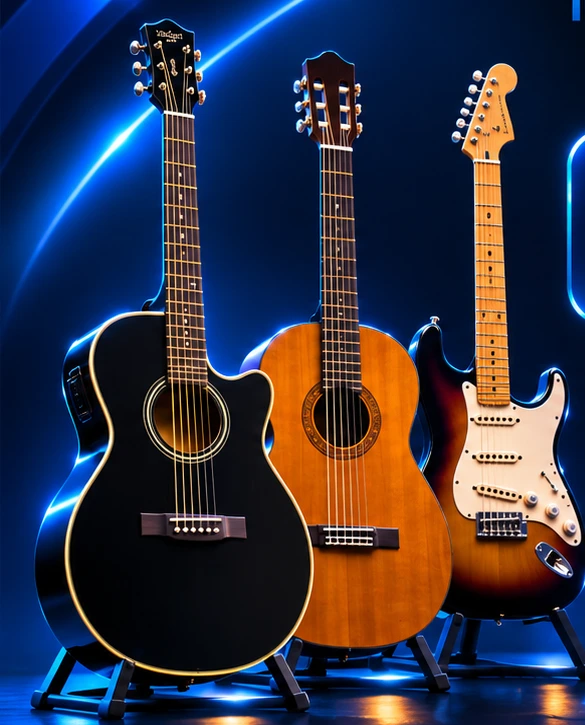
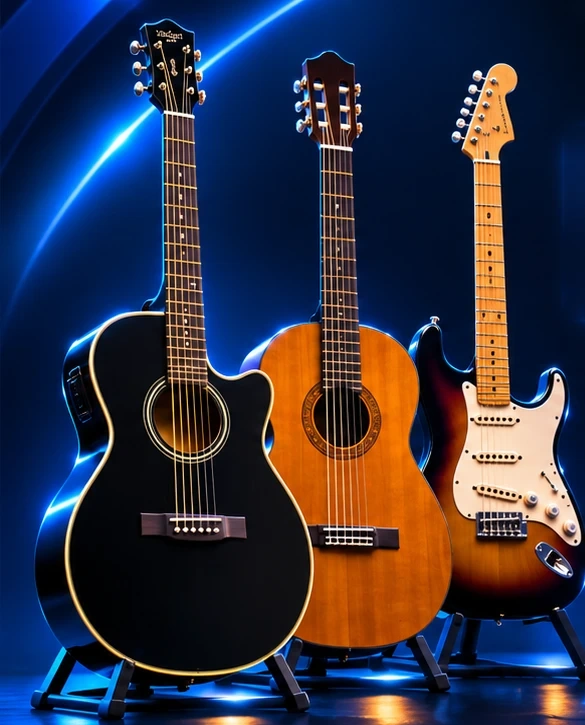
Add files via upload

Changed region(s): [[0.9538, 0.1517, 1.0, 0.4552], [0.9538, 0.0, 1.0, 0.0303]]

diff --git a/index.html b/index.html
@@ -101,7 +101,7 @@ body[data-section='home'] #workArea,body[data-section='home'] #sectionNav,body[d
 #homeScreen .hero-copy{background:transparent!important;box-shadow:none!important;border:0!important;margin-top:-3px!important;padding:0 12px clamp(20px,4vw,36px)!important}
 #homeScreen .hero-copy .tag{background:transparent!important;border:0!important;box-shadow:none!important}
 #homeScreen .hero-copy h1{background:transparent!important;border:0!important;box-shadow:none!important}
-</style></head><body><main class="shell"><header class="top"><div><div class="eyebrow">ROCK ACADEMY · VOL. 18.9</div><div class="logo">GUITAR <span>MASTER</span> <span style="font-size:.5em">⚡</span></div></div><div class="chip">🎸 CLÁSICA · ELECTROACÚSTICA · ELÉCTRICA</div></header><div id="homeScreen"><section class="home-art" aria-label="Portada de Guitar Master"><div class="hero-stage"><img class="hero-guitars" src="guitarras-sin-texto.webp" alt="Guitarra electroacústica negra Yamaha, guitarra clásica de madera y guitarra eléctrica Fender sunburst"><span class="guitar-brand brand-yamaha">YAMAHA</span><span class="guitar-brand brand-fender">Fender</span></div><div class="hero-copy"><div class="tag">GUITAR MASTER · ROCK ACADEMY</div><h1>APRENDE. <em>PRACTICA.</em> TOCA.</h1></div></section><div class="home-doors"><button type="button" class="home-door" id="goLearning"><span class="em">🎓 🎸</span><b>ESTUDIO / PRÁCTICA</b><small>Aprende con lecciones guiadas de notas, intervalos, acordes, escalas, ritmo y armonía.</small></button><button type="button" class="home-door game" id="goGame"><span class="em">🏆 ⚡</span><b>JUEGO / CONCIERTO</b><small>Identifica notas, encuentra posiciones y construye acordes. Suma puntos y supera tus retos.</small></button></div></div><nav class="subnav" id="sectionNav"><button class="btn ghost" type="button" id="goHome">⌂ INICIO</button><button class="btn secondary" type="button" id="navLearning">🎓 ESTUDIO / PRÁCTICA</button><button class="btn secondary" type="button" id="navGame">⚡ JUEGO</button></nav><div id="workArea"><div id="learningMenu"><h2 class="sectiontitle">TU ACADEMIA · APRENDE PASO A PASO</h2><p class="muted">Cada módulo explica la teoría, la muestra en el diapasón y te permite escucharla.</p><div class="learning-menu"><button type="button" id="quickFret"><span>🎸</span>Diapasón y notas</button><button type="button" id="quickChords"><span>🎼</span>Acordes</button><button type="button" id="quickScales"><span>🎶</span>Escalas y patrones</button><button type="button" id="quickIntervals"><span>🎹</span>Intervalos</button><button type="button" id="quickHarmony"><span>🎼</span>Armonía</button><button type="button" id="quickRhythm"><span>🥁</span>Ritmo y tablatura</button></div></div><h2 class="sectiontitle" id="modeHeading">ELIGE TU DESAFÍO</h2><div class="modes" id="modes"><button class="mode active" data-mode="identify"><span class="ico">🎯</span><b>IDENTIFICA</b><small>¿Qué nota está iluminada?</small></button><button class="mode" data-mode="find"><span class="ico">🔎</span><b>ENCUENTRA</b><small>Localiza la nota en la cuerda.</small></button><button class="mode" data-mode="chord"><span class="ico">🎼</span><b>CHORD MASTER</b><small>Construye y reconoce acordes.</small></button><button class="mode" data-mode="mix"><span class="ico">⚡</span><b>ROCK CHALLENGE</b><small>Todos los retos en un concierto.</small></button></div><div class="layout"><aside class="panel"><h2>⚙ TU SETLIST</h2><div id="gameSettings"><div class="field"><label for="player">NOMBRE DEL ROCKSTAR</label><input id="player" maxlength="24" value="Rockstar" placeholder="Tu nombre"></div><div class="grid2"><div class="field"><label for="seconds">SEGUNDOS / RETO</label><select id="seconds"><option>5</option><option selected>10</option><option>15</option><option>20</option><option>30</option><option>45</option></select></div><div class="field"><label for="count">PREGUNTAS</label><select id="count"><option>10</option><option selected>20</option><option>30</option><option>50</option></select></div></div></div><div class="grid2"><div class="field"><label for="frets">TRASTES</label><select id="frets"><option value="5">0–5</option><option value="12" selected>0–12</option><option value="16">0–16</option><option value="24">0–24</option></select></div><div class="field"><label for="level">DIFICULTAD</label><select id="level"><option value="easy">Principiante</option><option value="medium">Intermedio</option><option value="hard">Avanzado</option></select></div></div><div class="field"><label for="notation">NOTACIÓN MUSICAL</label><select id="notation"><option value="both">DO (C) · ambas</option><option value="latin">DO · RE · MI</option><option value="letter">C · D · E</option></select></div><label class="toggle"><input type="checkbox" id="sound" checked> 🔊 Sonido de guitarra y efectos</label><button id="start" class="btn full">▶ EMPEZAR CONCIERTO</button><button id="study" class="btn secondary full" style="margin-top:9px">🎓 EXPLORAR DIAPASÓN</button><button id="exploreChords" class="btn secondary full" style="margin-top:9px">🎼 EXPLORAR ACORDES</button><button id="exploreScales" class="btn secondary full" style="margin-top:9px">🎶 EXPLORAR ESCALAS</button><div id="scaleExplorer" class="field hide"><label for="scaleRoot">NOTA FUNDAMENTAL</label><select id="scaleRoot"></select><label for="scaleType" style="margin-top:10px;display:block">TIPO DE ESCALA</label><select id="scaleType"></select><label for="scaleView" style="margin-top:10px;display:block">VISUALIZACIÓN</label><select id="scaleView"><option value="position" selected>Patrones de digitación (1–5)</option><option value="all">Diapasón completo</option><option value="range">Por intervalo de trastes</option></select><div id="scalePositionBox" class="hide" style="margin-top:10px"><label for="scalePosition">POSICIÓN</label><select id="scalePosition"><option value="0">Posición 1</option><option value="1">Posición 2</option><option value="2">Posición 3</option><option value="3">Posición 4</option><option value="4">Posición 5</option></select></div><div id="scaleRangeBox" class="hide" style="margin-top:10px"><label>DESDE EL TRASTE</label><select id="scaleFrom"></select><label style="display:block;margin-top:9px">HASTA EL TRASTE</label><select id="scaleTo"></select></div><div id="scaleLesson" class="lesson-box"></div><div class="bottomrow"><button type="button" id="scalePrev" class="btn ghost">← ANTERIOR</button><button type="button" id="scaleNext" class="btn secondary">SIGUIENTE PATRÓN →</button><button type="button" id="scalePractice" class="btn secondary">♪ ESCUCHAR PATRÓN</button></div><div class="field" id="tempoBox"><label for="scaleBpm">VELOCIDAD DE PRÁCTICA · <strong id="bpmValue">60</strong> BPM</label><input type="range" id="scaleBpm" min="40" max="180" step="5" value="60" style="width:100%;accent-color:#2563eb"><p class="muted">Empieza lento; aumenta 5 BPM cuando puedas tocar el patrón sin errores.</p></div><p class="muted">Azul: tónica · Verde: demás notas · Números pequeños: dedo sugerido (1 índice, 2 medio, 3 anular, 4 meñique). Las rutas se calculan en afinación estándar y muestran una octava sin notas duplicadas.</p></div><div id="noteExplorer" class="field hide"><label class="toggle" style="margin:0 0 12px"><input type="checkbox" id="showAccidentals" checked> Mostrar sostenidos / bemoles (notas alteradas)</label><label>RESALTAR NOTAS EN TODO EL DIAPASÓN</label><div id="noteChoices" style="display:grid;grid-template-columns:repeat(4,1fr);gap:7px;margin-top:9px"></div><div class="bottomrow"><button id="allNotes" class="btn ghost" type="button" style="padding:8px 11px">Todas</button><button id="clearNotes" class="btn ghost" type="button" style="padding:8px 11px">Limpiar selección</button></div><p class="muted">Selecciona una o varias notas. Se iluminarán todas sus posiciones en las seis cuerdas. Las notas naturales siempre pueden seleccionarse; las alteradas se pueden ocultar o mostrar.</p></div><div id="theoryExplorer" class="field hide"><div id="theoryContent"></div></div><div id="chordExplorer" class="field hide"><label for="chordRoot">NOTA FUNDAMENTAL</label><select id="chordRoot"></select><label for="chordPick" style="margin-top:10px;display:block">VARIANTE DEL ACORDE</label><select id="chordPick"></select><p class="muted">Toca las posiciones iluminadas o rasguea para escuchar el acorde. X significa cuerda silenciada.</p></div><div class="record" id="record"></div><div class="history" id="history"></div></aside><section class="panel"><div class="stats" id="gameStats"><div class="stat"><small>PREGUNTA</small><strong id="qstat">—</strong></div><div class="stat"><small>PUNTOS</small><strong id="points">0</strong></div><div class="stat"><small>LOGRO</small><strong id="accuracy">—</strong></div><div class="stat"><small>TIEMPO</small><strong id="clock">—</strong></div></div><div class="question" id="question"><small>BIENVENIDO AL ESCENARIO</small><h2>¿LISTO PARA ROCKEAR?</h2><p>Elige un desafío, personaliza tu partida y presiona «Empezar concierto». También puedes explorar libremente las notas de la guitarra.</p></div><div class="timer"><div id="bar"></div></div><div class="fretwrap"><svg id="fretboard" viewBox="0 0 900 286" role="img" aria-label="Diapasón interactivo de seis cuerdas con afinación estándar"></svg><div class="legend">Como en tu guitarra: MI agudo arriba · MI grave abajo · toca una cuerda para escucharla o responder</div></div><div class="study" id="selectedNotes"></div><div class="answers" id="answers"></div><div id="feedback"></div><div class="bottomrow"><button id="submit" class="btn hide">COMPROBAR ACORDE</button><button id="next" class="btn hide">SIGUIENTE →</button><button id="strum" class="btn secondary">🎸 RASGUEAR CUERDAS</button><button id="replay" class="btn ghost">♪ ESCUCHAR</button><span class="muted" id="hint">Afinación estándar E–A–D–G–B–E</span></div></section></div><div class="foot">GUITAR MASTER · EDICIÓN ROCK ACADEMY · HECHO PARA APRENDER DE VERDAD 🎸</div></div></main><script>
+</style></head><body><main class="shell"><header class="top"><div><div class="eyebrow">ROCK ACADEMY · VOL. 19.0</div><div class="logo">GUITAR <span>MASTER</span> <span style="font-size:.5em">⚡</span></div></div><div class="chip">🎸 CLÁSICA · ELECTROACÚSTICA · ELÉCTRICA</div></header><div id="homeScreen"><section class="home-art" aria-label="Portada de Guitar Master"><div class="hero-stage"><img class="hero-guitars" src="guitarras-sin-texto.webp" alt="Guitarra electroacústica negra, guitarra clásica de madera y guitarra eléctrica sunburst"></div><div class="hero-copy"><div class="tag">GUITAR MASTER · ROCK ACADEMY</div><h1>APRENDE. <em>PRACTICA.</em> TOCA.</h1></div></section><div class="home-doors"><button type="button" class="home-door" id="goLearning"><span class="em">🎓 🎸</span><b>ESTUDIO / PRÁCTICA</b><small>Aprende con lecciones guiadas de notas, intervalos, acordes, escalas, ritmo y armonía.</small></button><button type="button" class="home-door game" id="goGame"><span class="em">🏆 ⚡</span><b>JUEGO / CONCIERTO</b><small>Identifica notas, encuentra posiciones y construye acordes. Suma puntos y supera tus retos.</small></button></div></div><nav class="subnav" id="sectionNav"><button class="btn ghost" type="button" id="goHome">⌂ INICIO</button><button class="btn secondary" type="button" id="navLearning">🎓 ESTUDIO / PRÁCTICA</button><button class="btn secondary" type="button" id="navGame">⚡ JUEGO</button></nav><div id="workArea"><div id="learningMenu"><h2 class="sectiontitle">TU ACADEMIA · APRENDE PASO A PASO</h2><p class="muted">Cada módulo explica la teoría, la muestra en el diapasón y te permite escucharla.</p><div class="learning-menu"><button type="button" id="quickFret"><span>🎸</span>Diapasón y notas</button><button type="button" id="quickChords"><span>🎼</span>Acordes</button><button type="button" id="quickScales"><span>🎶</span>Escalas y patrones</button><button type="button" id="quickIntervals"><span>🎹</span>Intervalos</button><button type="button" id="quickHarmony"><span>🎼</span>Armonía</button><button type="button" id="quickRhythm"><span>🥁</span>Ritmo y tablatura</button></div></div><h2 class="sectiontitle" id="modeHeading">ELIGE TU DESAFÍO</h2><div class="modes" id="modes"><button class="mode active" data-mode="identify"><span class="ico">🎯</span><b>IDENTIFICA</b><small>¿Qué nota está iluminada?</small></button><button class="mode" data-mode="find"><span class="ico">🔎</span><b>ENCUENTRA</b><small>Localiza la nota en la cuerda.</small></button><button class="mode" data-mode="chord"><span class="ico">🎼</span><b>CHORD MASTER</b><small>Construye y reconoce acordes.</small></button><button class="mode" data-mode="mix"><span class="ico">⚡</span><b>ROCK CHALLENGE</b><small>Todos los retos en un concierto.</small></button></div><div class="layout"><aside class="panel"><h2>⚙ TU SETLIST</h2><div id="gameSettings"><div class="field"><label for="player">NOMBRE DEL ROCKSTAR</label><input id="player" maxlength="24" value="Rockstar" placeholder="Tu nombre"></div><div class="grid2"><div class="field"><label for="seconds">SEGUNDOS / RETO</label><select id="seconds"><option>5</option><option selected>10</option><option>15</option><option>20</option><option>30</option><option>45</option></select></div><div class="field"><label for="count">PREGUNTAS</label><select id="count"><option>10</option><option selected>20</option><option>30</option><option>50</option></select></div></div></div><div class="grid2"><div class="field"><label for="frets">TRASTES</label><select id="frets"><option value="5">0–5</option><option value="12" selected>0–12</option><option value="16">0–16</option><option value="24">0–24</option></select></div><div class="field"><label for="level">DIFICULTAD</label><select id="level"><option value="easy">Principiante</option><option value="medium">Intermedio</option><option value="hard">Avanzado</option></select></div></div><div class="field"><label for="notation">NOTACIÓN MUSICAL</label><select id="notation"><option value="both">DO (C) · ambas</option><option value="latin">DO · RE · MI</option><option value="letter">C · D · E</option></select></div><label class="toggle"><input type="checkbox" id="sound" checked> 🔊 Sonido de guitarra y efectos</label><button id="start" class="btn full">▶ EMPEZAR CONCIERTO</button><button id="study" class="btn secondary full" style="margin-top:9px">🎓 EXPLORAR DIAPASÓN</button><button id="exploreChords" class="btn secondary full" style="margin-top:9px">🎼 EXPLORAR ACORDES</button><button id="exploreScales" class="btn secondary full" style="margin-top:9px">🎶 EXPLORAR ESCALAS</button><div id="scaleExplorer" class="field hide"><label for="scaleRoot">NOTA FUNDAMENTAL</label><select id="scaleRoot"></select><label for="scaleType" style="margin-top:10px;display:block">TIPO DE ESCALA</label><select id="scaleType"></select><label for="scaleView" style="margin-top:10px;display:block">VISUALIZACIÓN</label><select id="scaleView"><option value="position" selected>Patrones de digitación (1–5)</option><option value="all">Diapasón completo</option><option value="range">Por intervalo de trastes</option></select><div id="scalePositionBox" class="hide" style="margin-top:10px"><label for="scalePosition">POSICIÓN</label><select id="scalePosition"><option value="0">Posición 1</option><option value="1">Posición 2</option><option value="2">Posición 3</option><option value="3">Posición 4</option><option value="4">Posición 5</option></select></div><div id="scaleRangeBox" class="hide" style="margin-top:10px"><label>DESDE EL TRASTE</label><select id="scaleFrom"></select><label style="display:block;margin-top:9px">HASTA EL TRASTE</label><select id="scaleTo"></select></div><div id="scaleLesson" class="lesson-box"></div><div class="bottomrow"><button type="button" id="scalePrev" class="btn ghost">← ANTERIOR</button><button type="button" id="scaleNext" class="btn secondary">SIGUIENTE PATRÓN →</button><button type="button" id="scalePractice" class="btn secondary">♪ ESCUCHAR PATRÓN</button></div><div class="field" id="tempoBox"><label for="scaleBpm">VELOCIDAD DE PRÁCTICA · <strong id="bpmValue">60</strong> BPM</label><input type="range" id="scaleBpm" min="40" max="180" step="5" value="60" style="width:100%;accent-color:#2563eb"><p class="muted">Empieza lento; aumenta 5 BPM cuando puedas tocar el patrón sin errores.</p></div><p class="muted">Azul: tónica · Verde: demás notas · Números pequeños: dedo sugerido (1 índice, 2 medio, 3 anular, 4 meñique). Las rutas se calculan en afinación estándar y muestran una octava sin notas duplicadas.</p></div><div id="noteExplorer" class="field hide"><label class="toggle" style="margin:0 0 12px"><input type="checkbox" id="showAccidentals" checked> Mostrar sostenidos / bemoles (notas alteradas)</label><label>RESALTAR NOTAS EN TODO EL DIAPASÓN</label><div id="noteChoices" style="display:grid;grid-template-columns:repeat(4,1fr);gap:7px;margin-top:9px"></div><div class="bottomrow"><button id="allNotes" class="btn ghost" type="button" style="padding:8px 11px">Todas</button><button id="clearNotes" class="btn ghost" type="button" style="padding:8px 11px">Limpiar selección</button></div><p class="muted">Selecciona una o varias notas. Se iluminarán todas sus posiciones en las seis cuerdas. Las notas naturales siempre pueden seleccionarse; las alteradas se pueden ocultar o mostrar.</p></div><div id="theoryExplorer" class="field hide"><div id="theoryContent"></div></div><div id="chordExplorer" class="field hide"><label for="chordRoot">NOTA FUNDAMENTAL</label><select id="chordRoot"></select><label for="chordPick" style="margin-top:10px;display:block">VARIANTE DEL ACORDE</label><select id="chordPick"></select><p class="muted">Toca las posiciones iluminadas o rasguea para escuchar el acorde. X significa cuerda silenciada.</p></div><div class="record" id="record"></div><div class="history" id="history"></div></aside><section class="panel"><div class="stats" id="gameStats"><div class="stat"><small>PREGUNTA</small><strong id="qstat">—</strong></div><div class="stat"><small>PUNTOS</small><strong id="points">0</strong></div><div class="stat"><small>LOGRO</small><strong id="accuracy">—</strong></div><div class="stat"><small>TIEMPO</small><strong id="clock">—</strong></div></div><div class="question" id="question"><small>BIENVENIDO AL ESCENARIO</small><h2>¿LISTO PARA ROCKEAR?</h2><p>Elige un desafío, personaliza tu partida y presiona «Empezar concierto». También puedes explorar libremente las notas de la guitarra.</p></div><div class="timer"><div id="bar"></div></div><div class="fretwrap"><svg id="fretboard" viewBox="0 0 900 286" role="img" aria-label="Diapasón interactivo de seis cuerdas con afinación estándar"></svg><div class="legend">Como en tu guitarra: MI agudo arriba · MI grave abajo · toca una cuerda para escucharla o responder</div></div><div class="study" id="selectedNotes"></div><div class="answers" id="answers"></div><div id="feedback"></div><div class="bottomrow"><button id="submit" class="btn hide">COMPROBAR ACORDE</button><button id="next" class="btn hide">SIGUIENTE →</button><button id="strum" class="btn secondary">🎸 RASGUEAR CUERDAS</button><button id="replay" class="btn ghost">♪ ESCUCHAR</button><span class="muted" id="hint">Afinación estándar E–A–D–G–B–E</span></div></section></div><div class="foot">GUITAR MASTER · EDICIÓN ROCK ACADEMY · HECHO PARA APRENDER DE VERDAD 🎸</div></div></main><script>
 'use strict';const $=id=>document.getElementById(id),N=['C','C#','D','D#','E','F','F#','G','G#','A','A#','B'],LAT=['DO','DO♯','RE','RE♯','MI','FA','FA♯','SOL','SOL♯','LA','LA♯','SI'],OPEN=[40,45,50,55,59,64],STRING=['MI grave','LA','RE','SOL','SI','MI agudo'];const CHORDS=[{name:'DO mayor',sym:'C',root:0,type:'maj',shape:[-1,3,2,0,1,0]},{name:'RE mayor',sym:'D',root:2,type:'maj',shape:[-1,-1,0,2,3,2]},{name:'MI mayor',sym:'E',root:4,type:'maj',shape:[0,2,2,1,0,0]},{name:'FA mayor',sym:'F',root:5,type:'maj',shape:[1,3,3,2,1,1]},{name:'SOL mayor',sym:'G',root:7,type:'maj',shape:[3,2,0,0,0,3]},{name:'LA mayor',sym:'A',root:9,type:'maj',shape:[-1,0,2,2,2,0]},{name:'SI mayor',sym:'B',root:11,type:'maj',shape:[-1,2,4,4,4,2]},{name:'DO menor',sym:'Cm',root:0,type:'min',shape:[-1,3,5,5,4,3]},{name:'RE menor',sym:'Dm',root:2,type:'min',shape:[-1,-1,0,2,3,1]},{name:'MI menor',sym:'Em',root:4,type:'min',shape:[0,2,2,0,0,0]},{name:'FA menor',sym:'Fm',root:5,type:'min',shape:[1,3,3,1,1,1]},{name:'SOL menor',sym:'Gm',root:7,type:'min',shape:[3,5,5,3,3,3]},{name:'LA menor',sym:'Am',root:9,type:'min',shape:[-1,0,2,2,1,0]},{name:'SI menor',sym:'Bm',root:11,type:'min',shape:[-1,2,4,4,3,2]},{name:'SOL7',sym:'G7',root:7,type:'7',shape:[3,2,0,0,0,1]},{name:'DOmaj7',sym:'Cmaj7',root:0,type:'maj7',shape:[-1,3,2,0,0,0]},{name:'LA menor7',sym:'Am7',root:9,type:'min7',shape:[-1,0,2,0,1,0]},{name:'RE7',sym:'D7',root:2,type:'7',shape:[-1,-1,0,2,1,2]}];const INTERVALS={maj:[0,4,7],min:[0,3,7],7:[0,4,7,10],maj7:[0,4,7,11],min7:[0,3,7,10]};let studyTones=new Set(),showAccidentals=true,focusString=-1,mode='identify',phase='idle',q=null,number=0,points=0,correct=0,wrong=[],time=10,deadline=0,timer=null,selected=[],lastTouch=null,audio=null,lock=false;const rand=a=>a[Math.floor(Math.random()*a.length)],shuffle=a=>[...a].sort(()=>Math.random()-.5),pc=(s,f)=>(OPEN[s]+f)%12,natural=p=>![1,3,6,8,10].includes(p),fmt=p=>{let v=$('notation').value;return v==='latin'?LAT[p]:v==='letter'?N[p]:`${LAT[p]} (${N[p]})`},getMax=()=>+$('frets').value;function beep(midi,dur=1.3,delay=0){if(!$('sound').checked)return;try{audio=audio||new(window.AudioContext||window.webkitAudioContext)();if(audio.state==='suspended')audio.resume();const t=audio.currentTime+delay,f=440*Math.pow(2,(midi-69)/12),out=audio.createGain();out.gain.value=.42;out.connect(audio.destination);const decay=Math.max(.5,dur);[1,2,3,4,5,6].forEach((harm,i)=>{const osc=audio.createOscillator(),g=audio.createGain();osc.type='sine';osc.frequency.setValueAtTime(f*harm,t);const vol=[.21,.115,.063,.035,.019,.012][i];g.gain.setValueAtTime(.0001,t);g.gain.exponentialRampToValueAtTime(vol,t+.004+i*.001);g.gain.exponentialRampToValueAtTime(.0001,t+decay*(1-i*.105));osc.connect(g).connect(out);osc.start(t);osc.stop(t+decay+.02)})}catch(e){}}
 function chordSound(c){c.shape.forEach((f,s)=>{if(f>=0)beep(OPEN[s]+f,1.8,s*.075)})}
 function strum(){if(phase==='scaleStudy'){playScale();return}const shape=phase==='chordStudy'?q.chord.shape:q?.kind==='build'?Array.from({length:6},(_,s)=>selected.find(v=>v.s===s)?.f??-1):q?.chord?.shape||[0,0,0,0,0,0];shape.forEach((f,s)=>{if(f>=0)beep(OPEN[s]+f,1.8,s*.078)})}

diff --git a/sw.js b/sw.js
@@ -1,1 +1,1 @@
-const CACHE='guitar-master-v18-9-20261113';const ASSETS=['./','./index.html','./manifest.webmanifest','./icon-192.png','./icon-512.png','./guitarras-sin-texto.webp'];self.addEventListener('install',event=>{event.waitUntil(caches.open(CACHE).then(cache=>cache.addAll(ASSETS)).then(()=>self.skipWaiting()))});self.addEventListener('activate',event=>{event.waitUntil(caches.keys().then(keys=>Promise.all(keys.filter(key=>key.startsWith('guitar-master-')&&key!==CACHE).map(key=>caches.delete(key)))).then(()=>self.clients.claim()))});self.addEventListener('fetch',event=>{if(event.request.method!=='GET'||new URL(event.request.url).origin!==self.location.origin)return;if(event.request.mode==='navigate'){event.respondWith(fetch(event.request).then(r=>{if(r.ok){const c=r.clone();caches.open(CACHE).then(cache=>cache.put('./index.html',c))}return r}).catch(()=>caches.match('./index.html')));return}event.respondWith(caches.match(event.request).then(hit=>hit||fetch(event.request).then(response=>{if(response.ok){const copy=response.clone();caches.open(CACHE).then(cache=>cache.put(event.request,copy))}return response})))})
+const CACHE='guitar-master-v19-0-20261113';const ASSETS=['./','./index.html','./manifest.webmanifest','./icon-192.png','./icon-512.png','./guitarras-sin-texto.webp'];self.addEventListener('install',event=>{event.waitUntil(caches.open(CACHE).then(cache=>cache.addAll(ASSETS)).then(()=>self.skipWaiting()))});self.addEventListener('activate',event=>{event.waitUntil(caches.keys().then(keys=>Promise.all(keys.filter(key=>key.startsWith('guitar-master-')&&key!==CACHE).map(key=>caches.delete(key)))).then(()=>self.clients.claim()))});self.addEventListener('fetch',event=>{if(event.request.method!=='GET'||new URL(event.request.url).origin!==self.location.origin)return;if(event.request.mode==='navigate'){event.respondWith(fetch(event.request).then(r=>{if(r.ok){const c=r.clone();caches.open(CACHE).then(cache=>cache.put('./index.html',c))}return r}).catch(()=>caches.match('./index.html')));return}event.respondWith(caches.match(event.request).then(hit=>hit||fetch(event.request).then(response=>{if(response.ok){const copy=response.clone();caches.open(CACHE).then(cache=>cache.put(event.request,copy))}return response})))})
